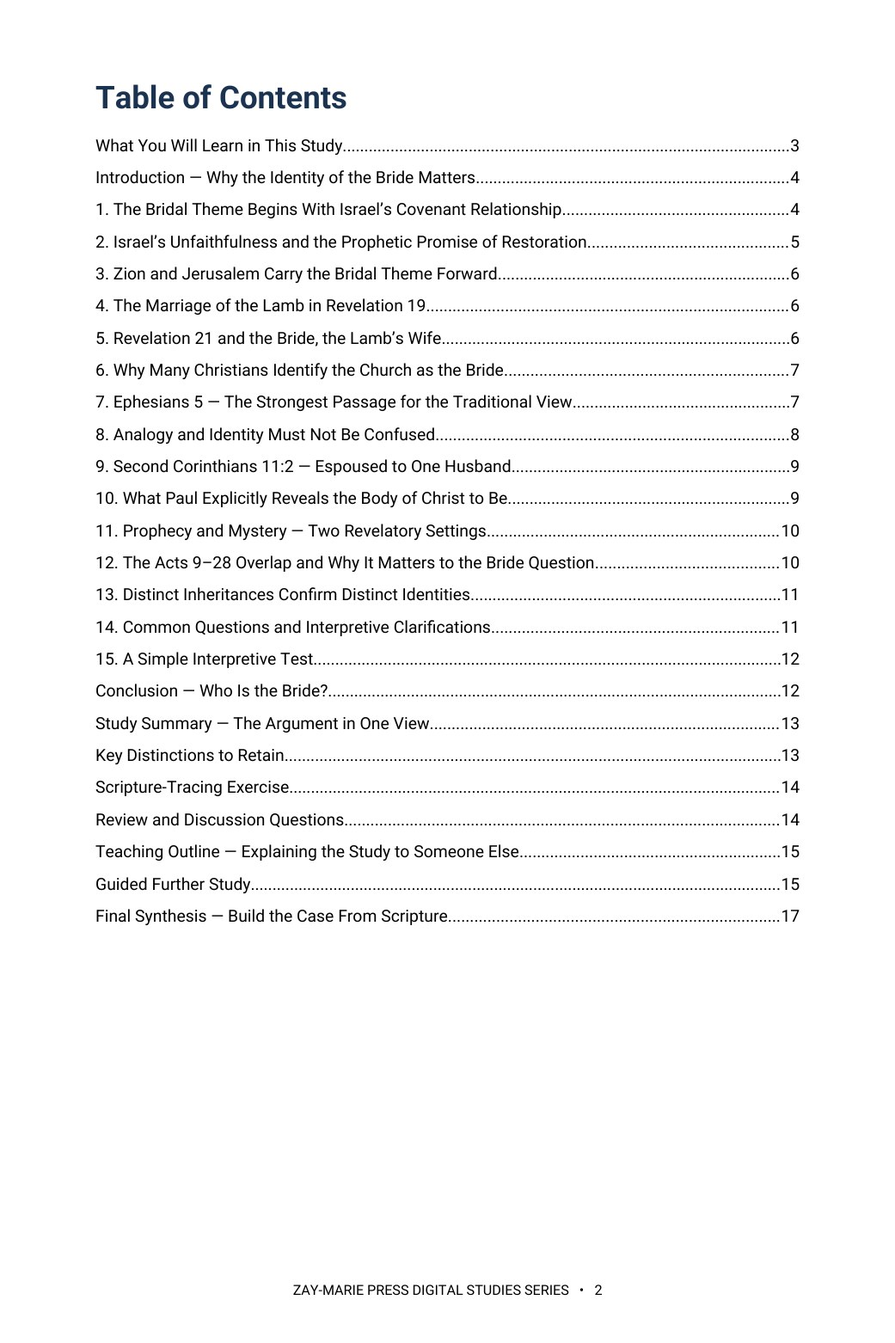
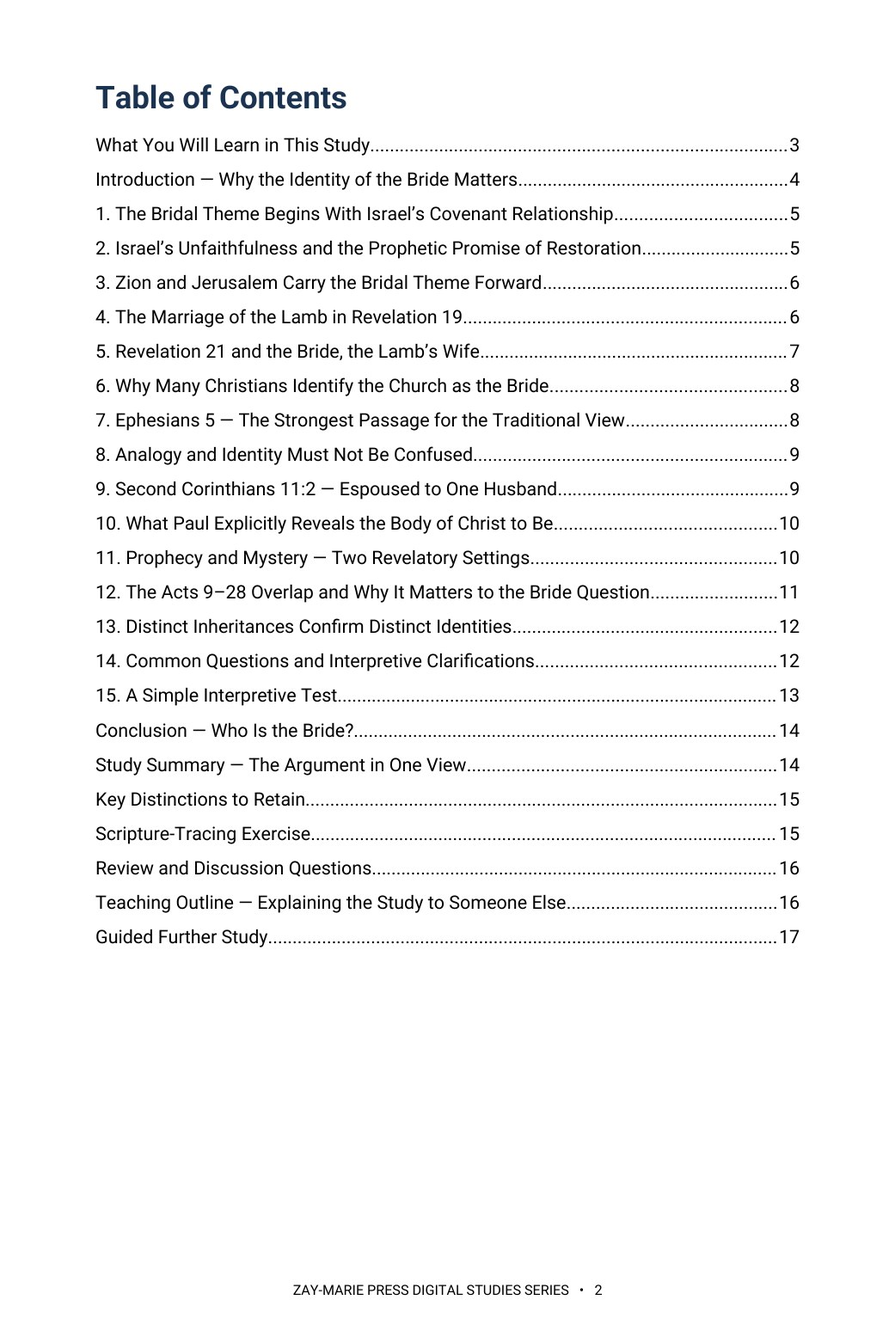
Study 1: rebuild at 10 pt, 20 pages; outlines, headings, Rule 19 and Acts 28 wording, standard imprint; website counts and previews
Claude-Session: https://claude.ai/code/session_01HC7bs9KYP2scp4hCL6DkTp

Changed region(s): [[0.0922, 0.0922, 0.7378, 0.7068], [0.8607, 0.1536, 0.8915, 0.7068], [0.7378, 0.4917, 0.7685, 0.5224]]

diff --git a/study-01-the-bride-of-christ.html b/study-01-the-bride-of-christ.html
@@ -27,9 +27,9 @@
 <section class="detail-section soft"><div class="wrap"><div class="eyebrow">WHAT YOU’LL STUDY</div><h2>Follow the Biblical Evidence From Prophecy to Mystery</h2><div class="study-points"><div class="study-point"><h3>Israel’s Covenant-Marriage Relationship</h3><p>Trace the bridal theme through Israel’s covenant history and the prophetic promises of judgment, restoration, and future faithfulness.</p></div><div class="study-point"><h3>Zion, Jerusalem &amp; the Bride</h3><p>Follow the relationship among Zion, Jerusalem, restoration, Kingdom hope, and bridal imagery from Isaiah into Revelation.</p></div><div class="study-point"><h3>The Marriage of the Lamb</h3><p>Examine Revelation 19 and 21 in their prophetic setting and consider Revelation’s own identification of the Bride/Lamb’s wife.</p></div><div class="study-point"><h3>Ephesians 5 &amp; 2 Corinthians 11</h3><p>Work carefully through the major Pauline passages used to support the traditional identification of the Church as the Bride.</p></div><div class="study-point"><h3>Analogy vs. Programmatic Identity</h3><p>Learn why genuine marriage imagery does not automatically transfer an identity, covenant, promise, or inheritance from one revealed program to another.</p></div><div class="study-point"><h3>The Acts Overlap &amp; Non-Transfer Principle</h3><p>See how Prophecy and Mystery operate concurrently during Acts 9–28 while retaining their distinct identities, promises, callings, and destinies.</p></div></div></div></section>
 <section class="detail-section cream"><div class="wrap"><div class="eyebrow">KEY SCRIPTURES</div><h2>Examine the Passages for Yourself</h2><div class="scripture-grid"><div class="scripture-card"><h3>Jeremiah 31:31–34</h3><p>Establishes the promised New Covenant specifically with the house of Israel and the house of Judah.</p></div><div class="scripture-card"><h3>Isaiah 54:1–8</h3><p>Uses husband-and-wife imagery to describe Israel’s estrangement, compassion, and promised restoration.</p></div><div class="scripture-card"><h3>Hosea 2:14–23</h3><p>Portrays Israel’s future restoration through renewed betrothal and covenant relationship with the LORD.</p></div><div class="scripture-card"><h3>Isaiah 60–62</h3><p>Connects Zion and Jerusalem with restoration, Kingdom glory, and explicit bridegroom-and-bride imagery.</p></div><div class="scripture-card"><h3>Revelation 19:7–9</h3><p>Announces the marriage of the Lamb and the preparation of His wife within Revelation’s prophetic setting.</p></div><div class="scripture-card"><h3>Revelation 21:9–14, 24</h3><p>Identifies the Bride, the Lamb’s wife, with the New Jerusalem and its distinctly Israel-related features.</p></div><div class="scripture-card"><h3>Ephesians 1–5</h3><p>Establishes the Body’s revealed Mystery identity and provides Paul’s husband-and-wife analogy in Ephesians 5.</p></div><div class="scripture-card"><h3>2 Corinthians 11:1–4</h3><p>Uses espousal imagery to express Paul’s pastoral concern for the Corinthian believers’ faithfulness to Christ.</p></div></div></div></section>
 <section class="detail-section"><div class="wrap"><div class="eyebrow">FROM THE STUDY</div><h2>Analogy and Identity Must Not Be Confused</h2><div class="excerpt"><blockquote>“An analogy can be true and powerful without requiring every feature of the comparison to become a permanent programmatic identity.”</blockquote><p>Ephesians 5 teaches profound truths concerning Christ’s love, sacrificial care, sanctifying purpose, and unity with the Church. The interpretive question is whether those truths also assign the Body of Christ the prophetic Bride identity established elsewhere in Scripture. The study examines that question by distinguishing genuine biblical analogy from the programmatic identities Scripture explicitly reveals.</p></div></div></section>
-<section class="detail-section soft"><div class="wrap"><div class="eyebrow">A LOOK INSIDE</div><h2>Preview the Study Before You Purchase</h2><p class="preview-instruction">Click any page preview to view it at full size.</p><div class="preview-grid"><div class="preview-card"><a class="preview-image-link" href="assets/study-01-page-2.jpg" data-preview-lightbox aria-label="Enlarge Study 1 page 2 preview"><img src="assets/study-01-page-2.jpg" alt="Study 1 page 2 preview — Table of Contents" loading="lazy"/></a><div class="page-no">Page 2</div><h3>Table of Contents</h3><p>See the full structure of the study, from the introduction through the final synthesis.</p></div><div class="preview-card"><a class="preview-image-link" href="assets/study-01-page-3.jpg" data-preview-lightbox aria-label="Enlarge Study 1 page 3 preview"><img src="assets/study-01-page-3.jpg" alt="Study 1 page 3 preview — What You Will Learn and Study Outline" loading="lazy"/></a><div class="page-no">Page 3</div><h3>What You Will Learn &amp; Study Outline</h3><p>See the study’s learning goals and the six-part outline used to trace the Bride question through the prophets, Revelation, and Paul’s epistles.</p></div><div class="preview-card"><a class="preview-image-link" href="assets/study-01-page-15.jpg" data-preview-lightbox aria-label="Enlarge Study 1 page 15 preview"><img src="assets/study-01-page-15.jpg" alt="Study 1 page 15 preview — Guided Further Study" loading="lazy"/></a><div class="page-no">Page 15</div><h3>Guided Further Study</h3><p>See how the study turns its argument into guided investigations for tracing the evidence directly in Scripture.</p></div></div></div></section>
-<section class="detail-section"><div class="wrap"><div class="eyebrow">WHAT’S INCLUDED</div><h2>A Focused Study Built for<br/>Understanding and Teaching</h2><div class="includes-grid"><div class="include-item"><h3>17-Page In-Depth Biblical Study</h3><p>A focused examination that develops the subject through sustained biblical argument rather than a brief overview.</p></div><div class="include-item"><h3>15 Teaching Sections</h3><p>Progress through the issue step by step, building the biblical case from foundational passages to final synthesis.</p></div><div class="include-item"><h3>Study Summary &amp; Key Distinctions</h3><p>Reinforce the central conclusions and the interpretive distinctions necessary to understand the subject clearly.</p></div><div class="include-item"><h3>Scripture-Tracing Exercise</h3><p>Follow the argument directly through Scripture and examine how the principal passages contribute to the conclusion.</p></div><div class="include-item"><h3>Review &amp; Discussion Questions</h3><p>Test comprehension, revisit important interpretive issues, and support individual or group discussion.</p></div><div class="include-item"><h3>Teaching Outline</h3><p>A ready outline for explaining the study’s biblical argument clearly and systematically to someone else.</p></div><div class="include-item"><h3>Six Guided Further-Study Investigations</h3><p>Extend the study through targeted biblical questions designed for deeper independent investigation.</p></div><div class="include-item"><h3>Final Synthesis Exercise</h3><p>Bring the evidence together and articulate the study’s major conclusions from Scripture in your own words.</p></div></div></div></section>
-<section class="detail-section cream"><div class="wrap"><div class="final-buy"><div><div class="eyebrow">STUDY 1 · DIGITAL STUDY</div><h2>The Bride of Christ</h2><p>17-page digital PDF · For personal use</p></div><div class="final-offer"><div class="detail-price">$5.99</div><span class="detail-button pending" aria-disabled="true">Get the Study</span></div></div><a class="back-link" href="digital-studies.html">← Back to All Digital Studies</a></div></section>
+<section class="detail-section soft"><div class="wrap"><div class="eyebrow">A LOOK INSIDE</div><h2>Preview the Study Before You Purchase</h2><p class="preview-instruction">Click any page preview to view it at full size.</p><div class="preview-grid"><div class="preview-card"><a class="preview-image-link" href="assets/study-01-page-2.jpg" data-preview-lightbox aria-label="Enlarge Study 1 page 2 preview"><img src="assets/study-01-page-2.jpg" alt="Study 1 page 2 preview — Table of Contents" loading="lazy"/></a><div class="page-no">Page 2</div><h3>Table of Contents</h3><p>See the full structure of the study, from the introduction through the final synthesis.</p></div><div class="preview-card"><a class="preview-image-link" href="assets/study-01-page-3.jpg" data-preview-lightbox aria-label="Enlarge Study 1 page 3 preview"><img src="assets/study-01-page-3.jpg" alt="Study 1 page 3 preview — What You Will Learn and Study Outline" loading="lazy"/></a><div class="page-no">Page 3</div><h3>What You Will Learn &amp; Study Outline</h3><p>See the study’s learning goals and the six-part outline used to trace the Bride question through the prophets, Revelation, and Paul’s epistles.</p></div><div class="preview-card"><a class="preview-image-link" href="assets/study-01-page-17.jpg" data-preview-lightbox aria-label="Enlarge Study 1 page 17 preview"><img src="assets/study-01-page-17.jpg" alt="Study 1 page 15 preview — Guided Further Study" loading="lazy"/></a><div class="page-no">Page 17</div><h3>Guided Further Study</h3><p>See how the study turns its argument into guided investigations for tracing the evidence directly in Scripture.</p></div></div></div></section>
+<section class="detail-section"><div class="wrap"><div class="eyebrow">WHAT’S INCLUDED</div><h2>A Focused Study Built for<br/>Understanding and Teaching</h2><div class="includes-grid"><div class="include-item"><h3>20-Page In-Depth Biblical Study</h3><p>A focused examination that develops the subject through sustained biblical argument rather than a brief overview.</p></div><div class="include-item"><h3>15 Teaching Sections</h3><p>Progress through the issue step by step, building the biblical case from foundational passages to final synthesis.</p></div><div class="include-item"><h3>Study Summary &amp; Key Distinctions</h3><p>Reinforce the central conclusions and the interpretive distinctions necessary to understand the subject clearly.</p></div><div class="include-item"><h3>Scripture-Tracing Exercise</h3><p>Follow the argument directly through Scripture and examine how the principal passages contribute to the conclusion.</p></div><div class="include-item"><h3>Review &amp; Discussion Questions</h3><p>Test comprehension, revisit important interpretive issues, and support individual or group discussion.</p></div><div class="include-item"><h3>Teaching Outline</h3><p>A ready outline for explaining the study’s biblical argument clearly and systematically to someone else.</p></div><div class="include-item"><h3>Six Guided Further-Study Investigations</h3><p>Extend the study through targeted biblical questions designed for deeper independent investigation.</p></div><div class="include-item"><h3>Final Synthesis Exercise</h3><p>Bring the evidence together and articulate the study’s major conclusions from Scripture in your own words.</p></div></div></div></section>
+<section class="detail-section cream"><div class="wrap"><div class="final-buy"><div><div class="eyebrow">STUDY 1 · DIGITAL STUDY</div><h2>The Bride of Christ</h2><p>20-page digital PDF · For personal use</p></div><div class="final-offer"><div class="detail-price">$5.99</div><span class="detail-button pending" aria-disabled="true">Get the Study</span></div></div><a class="back-link" href="digital-studies.html">← Back to All Digital Studies</a></div></section>
 <section class="study-method-course-bridge"><div class="wrap"><div class="study-method-course-panel"><div><div class="eyebrow">BUILD THE INTERPRETIVE METHOD</div><h2>Want More Than a Focused Study?</h2><p>Digital Studies examine particular biblical subjects and difficult passages. The 40-lesson Biblical Hermeneutics course teaches a complete, repeatable method for establishing meaning in context, determining proper assignment, and making responsible application.</p></div><a class="btn btn-primary" href="biblical-hermeneutics-course.html">BIBLICAL HERMENEUTICS COURSE</a></div></div></section></main><div class="preview-lightbox" id="preview-lightbox" role="dialog" aria-modal="true" aria-label="Enlarged study page preview"><button class="preview-lightbox-close" type="button" aria-label="Close enlarged preview">×</button><img src="" alt=""/><div class="preview-lightbox-hint">Scroll to read the full page · Press Esc or click outside the page to close</div></div>
 <footer class="site-footer"><div class="wrap footer-grid"><div class="footer-about"><h3>Zay-Marie Press</h3><p class="footer-tagline"><em>Where the Bible Means What It Says.</em></p><p>Zay-Marie Press is a Christian theological publisher dedicated to producing doctrinally precise, carefully structured biblical resources that equip pastors, teachers, and serious students with clarity, depth, and Scripture-anchored truth.</p><p><a href="https://zaymariepress.com">zaymariepress.com</a><br/><a href="mailto:info@zaymariepress.com">info@zaymariepress.com</a></p></div><div class="footer-column"><h3>Explore</h3><div class="footer-links-stacked"><a href="books.html">Books</a><br/><a href="series.html">Series</a><br/><a href="biblical-hermeneutics-course.html">Course</a><br/><a href="digital-studies.html">Digital Studies</a><br/><a href="resources.html">Resources</a><br/><a href="bible-book-summaries.html">Bible Book Summaries</a><br/><a href="doctrinal-packets.html">Doctrinal Packets</a><br/><a href="historical-drift.html">Historical Drift</a><br/><a href="about.html">About</a><br/><a href="contact.html">Contact</a></div></div><div class="footer-column"><h3>Reader Support</h3><div class="footer-links-stacked"><a href="reader-support.html#faq">FAQ</a><br/><a href="reader-support.html#shipping-returns">Shipping &amp; Returns</a><br/><a href="reader-support.html#digital-downloads">Digital Downloads</a><br/><a href="reader-support.html#contact-support">Contact Support</a></div></div><div class="footer-column"><h3>Acts Overlap</h3><p><strong>Acts Overlap Theology Series</strong></p><p><em>Two Distinct Streams. One Overlap.</em></p><p><a href="series.html">Series Overview</a></p></div></div><div class="wrap footer-bottom">© 2026 Zay-Marie Press. All rights reserved.</div></footer>
 <script src="site.js"></script><script>(function(){var box=document.getElementById("preview-lightbox"),img=box.querySelector("img"),close=box.querySelector(".preview-lightbox-close"),hint=box.querySelector(".preview-lightbox-hint"),hintTimer;function shut(){clearTimeout(hintTimer);box.classList.remove("open");hint.classList.remove("fade");document.body.style.overflow="";img.src="";}document.querySelectorAll("[data-preview-lightbox]").forEach(function(a){a.addEventListener("click",function(e){e.preventDefault();clearTimeout(hintTimer);img.src=a.getAttribute("href");img.alt=a.querySelector("img").alt;hint.classList.remove("fade");box.classList.add("open");document.body.style.overflow="hidden";box.scrollTop=0;hintTimer=setTimeout(function(){hint.classList.add("fade");},3000);});});close.addEventListener("click",shut);box.addEventListener("click",function(e){if(e.target===box)shut();});document.addEventListener("keydown",function(e){if(e.key==="Escape"&&box.classList.contains("open"))shut();});})();</script>

diff --git a/site.js b/site.js
@@ -62,7 +62,7 @@ const resourceModal=document.querySelector('#resource-modal'), resourceModalTitl
 if(resourceModal&&resourceModalTriggers.length){const closeResourceModal=()=>{resourceModal.hidden=true;document.body.classList.remove('resource-modal-open');lastResourceTrigger?.focus();};resourceModalTriggers.forEach(trigger=>trigger.addEventListener('click',()=>{lastResourceTrigger=trigger;if(resourceModalTitle)resourceModalTitle.textContent=trigger.dataset.title||'Resource';if(resourceModalDescription)resourceModalDescription.textContent=trigger.dataset.description||'';if(resourceModalLink){resourceModalLink.href=trigger.dataset.href||'#';resourceModalLink.textContent=trigger.dataset.linkText||'OPEN RESOURCE';}resourceModal.hidden=false;document.body.classList.add('resource-modal-open');resourceModalClose?.focus();}));resourceModalClose?.addEventListener('click',closeResourceModal);resourceModal.addEventListener('click',e=>{if(e.target===resourceModal)closeResourceModal();});document.addEventListener('keydown',e=>{if(e.key==='Escape'&&!resourceModal.hidden)closeResourceModal();});}
 
 /* Display the verified final-PDF page count at the primary purchase decision point. */
-const digitalStudyPageCounts={1:17,2:19,3:16,4:17,5:15,6:15,7:14,8:13,9:15,10:20,11:15,12:15,13:18,14:15,15:15,16:16,17:17,18:18,19:16,20:15,21:16,22:15,23:14,24:16,25:17,26:16,27:16,28:17,29:19,30:18,31:18,32:19,33:18,34:20,35:22,36:20,37:21,38:22,39:22,40:23,41:21,42:17,43:17,44:19,45:19,46:20,47:19,48:18,49:20,50:19,51:20,52:19,53:19,54:17,55:20,56:20,57:20,58:19,59:20,60:15,61:16,62:18,63:17,64:17,65:16,66:16,67:17,68:16,69:17,70:17,71:16};
+const digitalStudyPageCounts={1:20,2:19,3:16,4:17,5:15,6:15,7:14,8:13,9:15,10:20,11:15,12:15,13:18,14:15,15:15,16:16,17:17,18:18,19:16,20:15,21:16,22:15,23:14,24:16,25:17,26:16,27:16,28:17,29:19,30:18,31:18,32:19,33:18,34:20,35:22,36:20,37:21,38:22,39:22,40:23,41:21,42:17,43:17,44:19,45:19,46:20,47:19,48:18,49:20,50:19,51:20,52:19,53:19,54:17,55:20,56:20,57:20,58:19,59:20,60:15,61:16,62:18,63:17,64:17,65:16,66:16,67:17,68:16,69:17,70:17,71:16};
 const digitalStudyMatch=window.location.pathname.match(/\/study-(\d+)-/i);
 const digitalStudyFormat=document.querySelector('.detail-hero .detail-format');
 if(digitalStudyMatch&&digitalStudyFormat){const studyNumber=Number(digitalStudyMatch[1]),pageCount=digitalStudyPageCounts[studyNumber];if(pageCount)digitalStudyFormat.textContent=`Digital PDF · ${pageCount} Pages`;}

diff --git a/CLAUDE.md b/CLAUDE.md
@@ -24,7 +24,7 @@ These are kept in the repo at `controlling-documents/` and are the current versi
 - As of v1.51 (publisher directive, 2026-10-04), §10 fixes the standard end-imprint copyright and personal-use notice in full, **including** the sentence “Scripture quotations are from the King James Version (KJV).”, written into this file in the same pass (Master Standard §10 and §22): “Copyright © 2026 Alexander S. Marien. All rights reserved. Published by Zay-Marie Press. Licensed for the personal use of the purchaser; no part may be reproduced or distributed without permission. Scripture quotations are from the King James Version (KJV).” This settles the Wave 5 imprint ruling: Studies 1, 21, 23, 26, 29, 31, 32, 33 and every study rebuilt with the sentence stand as built; a study whose imprint lacks it (the Study 52 reference among them) takes it when reopened or retrofitted. In every study check (Step 1), compare the end imprint with this wording.
 **`controlling-documents/Digital_Studies_Relationship_Map_v1.39.md`** — records each study's distinct subject, its related studies, the eight priced six-study collections, the Paul's Missionary Journeys cross-reference map, and the five primary catalog categories (currently version 1.39, covers Studies 1–71; update it as new studies publish, bump the version number, rename the file to match, and log the change in its own version-history table — mirroring the Master Standard's `_vX.Y` filename convention). Check a proposed topic against it before recommending or writing a new study. (2026-09-28: the file was missing from this repo despite this note referencing it; replaced from the publisher's copy and bumped v1.15→v1.25 in the same pass. If this note ever again points to a version not present under `controlling-documents/`, ask the publisher for a copy rather than proceeding without the check.)
 - **`controlling-documents/Digital_Studies_Category_Standard_v1.1.md`** — FINAL and binding (publisher, 2026-10-01): the rules for the five primary catalog categories (Foundations, Israel & Prophecy, Body of Christ, Passages, Doctrinal Themes), the ordered decision procedure for new studies, the precedents, all 71 fixed assignments, and the cover-label form for each category. Read it before placing any card or cover label. Do not ask the publisher where a study belongs; apply the procedure and state the result. Only the publisher changes a ruling; then bump this Standard's version and filename, re-letter the cover, and update the Relationship Map.
-- **`controlling-documents/Doctrinal_Upgrade_Retrofit_Plan_v1.121.md`** — working tracker for retrofitting Studies 1–59 to the 2026-10-02 doctrinal upgrade (Framework/PAM v1.1, Master Standard v1.40, Rules 7–17): withdrawn-wording search keys, impact tiers, waves and the per-study method. Read it before continuing the retrofit in any session; update status, bump the version and rename the file as work proceeds.
+- **`controlling-documents/Doctrinal_Upgrade_Retrofit_Plan_v1.122.md`** — working tracker for retrofitting Studies 1–59 to the 2026-10-02 doctrinal upgrade (Framework/PAM v1.1, Master Standard v1.40, Rules 7–17): withdrawn-wording search keys, impact tiers, waves and the per-study method. Read it before continuing the retrofit in any session; update status, bump the version and rename the file as work proceeds.
 - **`controlling-documents/Doctrinal_Packet_Standard_v0.3.md`** — Doctrinal Packet Standard (DRAFT; §7 approved). Governs the separate Doctrinal Packets product strand (5-page interpretive PDFs per Bible book — a print-friendly cover as page 1 plus 4 content pages, $2.99, KJV, pilot: Genesis, live at `packet-genesis.html`, hub `doctrinal-packets.html`; site pages say "5 Pages", cover styles live in `packets.css`, Old Testament blue and New Testament soft pale green, hub listed in Bible order). **Preview rule (publisher directive, 2026-09-29, packets only):** previews show about one page's worth in two cropped views (top of page 1 through the anchor texts; the chart section) — never the exegesis, architecture, Mystery contrast, logic chain, outline, or closing. Master Standard §16/§17 still govern Digital Studies. Bump the version and rename the file as the Standard is finalized.
 - **`controlling-documents/Preview_Page_Spoiler_Retrofit_Audit_v1.4.md`** — working tracker for the Studies 1–60 preview-page conclusion-spoiler retrofit (see the section below). Read it before continuing that audit in any session; update its status fields and changelog, bump the version, and rename the file to match as the audit proceeds — same `_vX.Y` convention as the other controlling documents. As of v1.1, the website-side half was DONE: all 60 studies' "What You'll Study" text was judged against the rule (methodology documented in the file) and 22 points across 11 studies were rewritten and pushed; an unrelated Study 22 content bug (Study 21's content had leaked into it) was also found and fixed. As of v1.2, the publisher supplied Studies 1–60's interior production PDFs and the interior-PDF half was also surveyed (read-only): 10 studies (37, 41, 45, 47, 48, 49, 51, 52, 53, 54) were found to have at least one interior "What You Will Learn" violation, 50 studies were confirmed compliant, and the orphaned `assets/study-45-sanctification-under-grace.docx` (removed from the repo per the publisher in v1.0) was confirmed word-for-word identical to Study 45's actual production interior PDF content. As of v1.3, the publisher supplied editable DOCX sources for all 10 violating studies; all 15 violating points were rewritten and approved, delivered as corrected final PDFs, and — along the way — a second defect was found and fixed (Studies 47 and 48's source DOCX still had an unintegrated cover placeholder despite both being long-published live with real covers; fixed by inserting the existing approved cover art). The website's "What You Will Learn" preview image (`study-NN-page-3.jpg`) was regenerated from the corrected content for all 10 studies and pushed to `main` (commit `cea1859`), verified against a fresh clone. **The website side of this audit is now fully compliant for all 60 studies.** Outstanding: the publisher's purchasable interior PDF files themselves have corrected versions delivered, but distribution to existing purchasers was decided by the publisher on 2026-09-29: silent swap of the files behind the existing downloads, no reissue notice (recorded in the v1.4 changelog entry; the product files are not in this repo).
 

diff --git a/controlling-documents/Doctrinal_Upgrade_Retrofit_Plan_v1.122.md b/controlling-documents/Doctrinal_Upgrade_Retrofit_Plan_v1.122.md
@@ -214,3 +214,4 @@ Working tracker for correcting published studies to the Framework/PAM v1.1, Mast
 - v1.119 (2026-10-04): Study 40 rebuilt in Roboto at 10 pt on the current page, 23 pages (was 16 on the old 432×648 page). WYWL running paragraphs replaced by the standard lead-in and six process bullets (publisher-approved, same words); withdrawn 'believing Jews are gathered into the Body … identity, not program membership' replaced by the overlap sentence plus Rule 17; 'Gentiles participate spiritually' (Gal 3:29 paragraph, Section 10, Key Distinctions cell) replaced by the Galatians 3 standing sentence; publisher-approved rewording of 'participate in promise', 'complete their Abrahamic heirship' and 'a substantial Abrahamic connection' so they state what Paul says believers receive in Christ; Teaching Outline numbered; layout-only keep-with-next on Final Synthesis.
 - v1.120 (2026-10-04): Study 41 rebuilt in Roboto at 10 pt on the current page, 21 pages (was 16 on the old 432×648 page). WYWL running paragraphs replaced by the standard lead-in and six process bullets (publisher-approved, same words); four 'The Framework does not assign … as a book' sentences handled (2 Timothy, 1 Thessalonians, Philippians converted to the reader-facing audience-markers sentence; Revelation sentence deleted because Revelation is now assigned); two 'framework' phrases reworded; withdrawn 'believing Jews are gathered into the Body' clarifier replaced by Rule 17; 'Prophecy-Program content spoken by the Mystery apostle' (Acts 19:8; 28:23) replaced by Rule 18 plus overlap sentence, short form in the Overlap Control callout and Key Distinctions cell; Acts 28 'national judicial suspension' conformed with the boundary sentence; Romans 11:25 citation carries the four-point list and triad; Teaching Outline numbered; layout-only keep-with-next on Final Synthesis. This completes the old-page-size rebuild list (4–41).
 - v1.121 (2026-10-04): Publisher ruling on the Wave 5 imprint item (option 2): the standard end-imprint notice includes 'Scripture quotations are from the King James Version (KJV).' Written into Master Standard §10 and §22 (v1.51, DOCX and PDF) and CLAUDE.md in the same pass; pushed 50fc0ff. Studies 1, 21, 23, 26, 29, 31, 32, 33 and every study rebuilt with the sentence stand as built; a study lacking it (Study 52 among them) takes it when reopened or retrofitted. Count of published studies lacking the sentence not yet taken. Item closed.
+- v1.122 (2026-10-04): Study 1 rebuilt in Roboto at 10 pt on the current page, 20 pages (was 17 at 9 pt). Publisher-approved: What You Will Learn set as the standard lead-in plus the eight bullets as real bullets (the two running paragraphs above removed); Study Outline rebuilt as a two-level bullet list (typed I./A. prefixes removed, wording unchanged); Teaching Outline numbered 1–5; 'Investigation' and Section 14 question sub-headings changed from navy to bold black body-size lines with keep-with-next (closes that Wave 5 item); Rule 19: 'finished work' wording replaced in the Introduction and Section 12; Acts 28 'national judicial suspension' conformed in six places (including the callout line) with the boundary sentence added once; imprint replaced by the standard v1.51 notice. Preview 3 for Guided Further Study moved from page 15 to 17 (study-01-page-17.jpg). Wave 5 items closed: Study 1 navy Investigation headings; Study 1 9→10 pt reset; imprint (Study 1).

diff --git a/controlling-documents/Digital_Studies_PAM_Audit_v1.216.md b/controlling-documents/Digital_Studies_PAM_Audit_v1.216.md
@@ -445,3 +445,4 @@ Study 15 PDF not yet supplied. Typography: none of Studies 2, 3, 6, 8 is in EB G
 - v1.213 (2026-10-04): Study 40 rebuilt in Roboto at 10 pt on the current page, 23 pages; WYWL bulleted; withdrawn 'gathered into the Body' and 'Gentiles participate spiritually' wording replaced by standing sentences; Abrahamic 'participate/connection/heirship' summary lines reworded (see Retrofit Plan v1.119).
 - v1.214 (2026-10-04): Study 41 rebuilt in Roboto at 10 pt on the current page, 21 pages; WYWL bulleted; Framework wording removed; withdrawn 'gathered into the Body' and Prophecy-content-spoken-by-Paul wording replaced by Rule 17/18 sentences; Acts 28 wording conformed; Romans 11:25 citation carries the standing list and triad (see Retrofit Plan v1.120). Old-page-size rebuild list complete.
 - v1.215 (2026-10-04): Master Standard v1.51 fixes the end-imprint notice including the KJV sentence; Wave 5 imprint ruling closed (see Retrofit Plan v1.121).
+- v1.216 (2026-10-04): Study 1 rebuilt at 10 pt, 20 pages; WYWL, Study Outline and Teaching Outline conformed; navy Investigation headings set as bold black; Rule 19 and Acts 28 wording conformed; standard v1.51 imprint (see Retrofit Plan v1.122).
